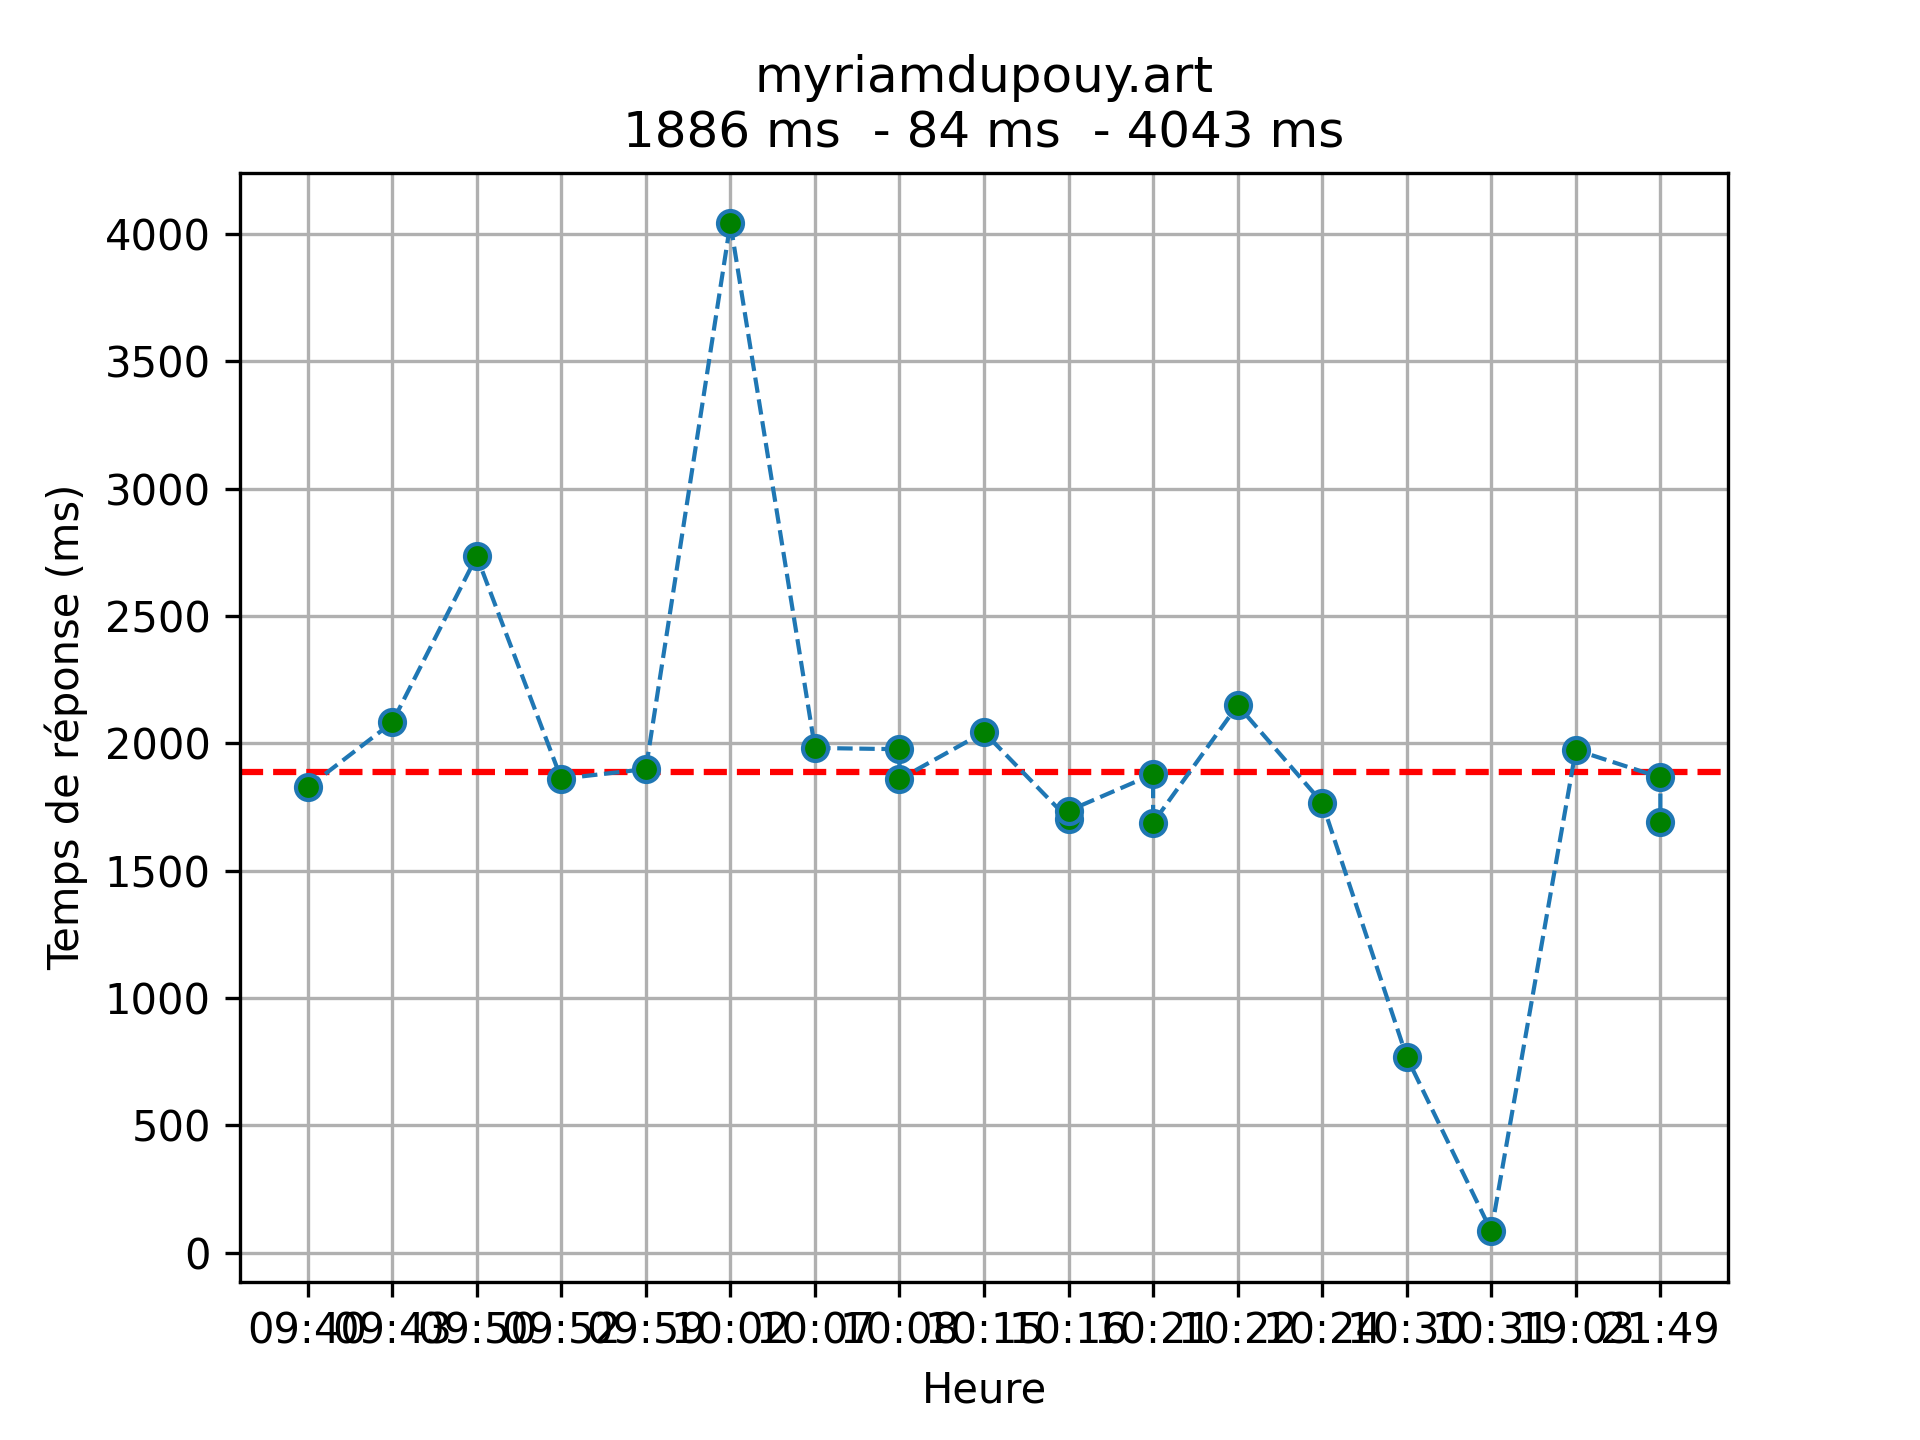
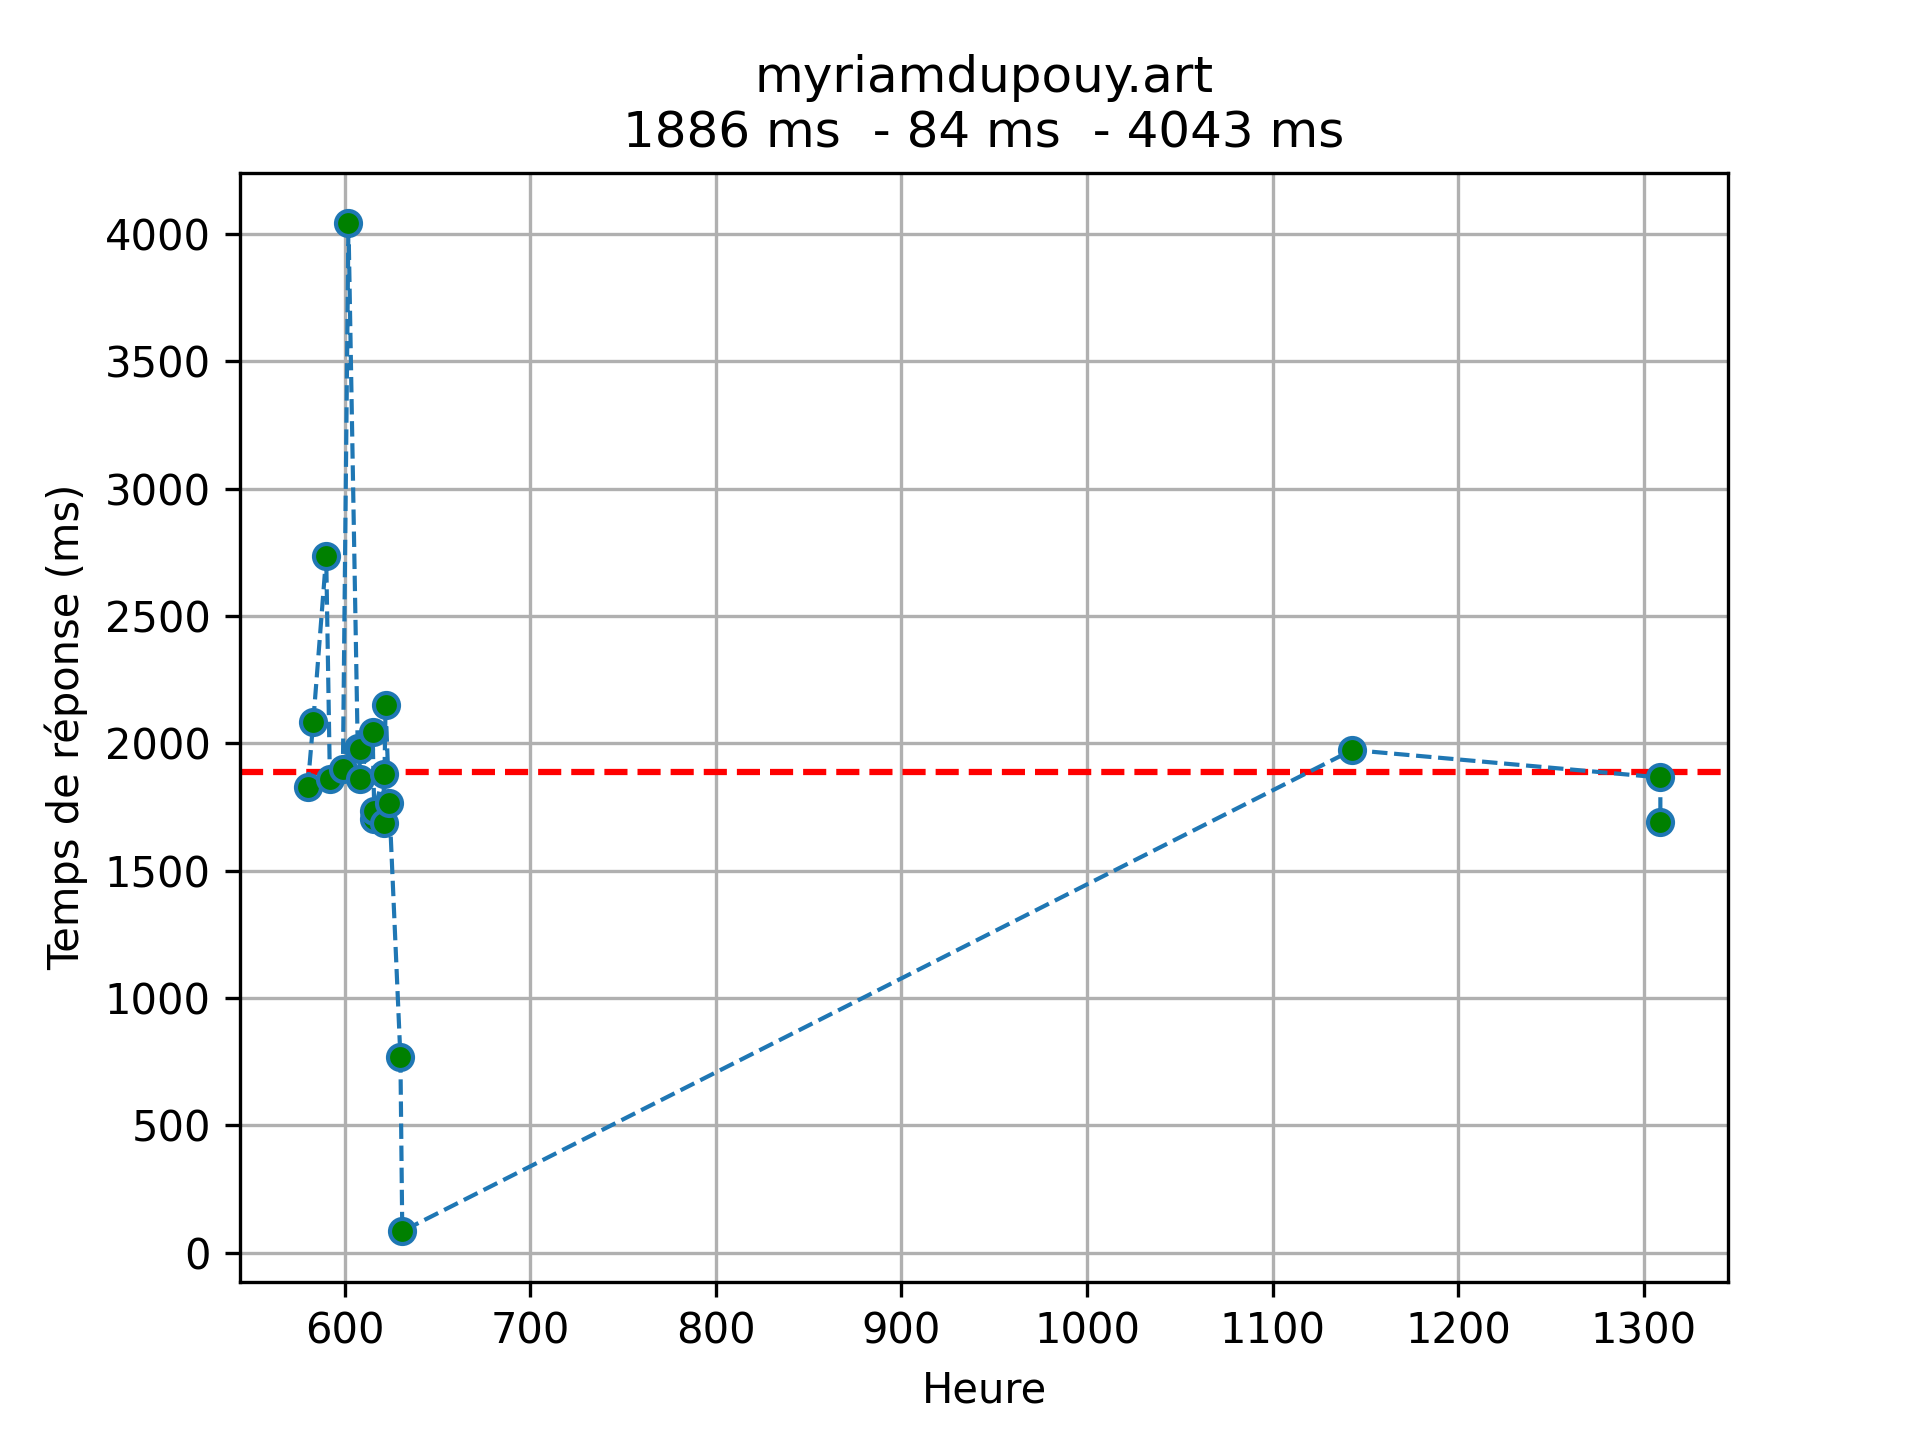
Passage à la seconde pour l'axe X

diff --git a/createGraphSVG.py b/createGraphSVG.py
@@ -1,0 +1,76 @@
+
+import numpy as np
+from datetime import datetime
+import json
+
+class createGraph:
+    fichierData = ""
+    nomHost = ""
+    dataGraph = []
+    labels=[]
+    Tdr=[]
+    SufixeGRAPH = "_graph"
+    PrefixeDATA = ""
+    extensionGraph = "png"
+    dpiGraph = 300
+    enregistrementGraph =""
+   
+    def __init__(self, fichierJson, nomHost, enregistrementGraph = False):
+        self.fichierData = fichierJson
+        self.nomHost = nomHost
+        self.enregistrementGraph = enregistrementGraph
+        self.chargerData()
+           
+    def chargerData(self):
+            # Récupération des valeurs depuis un fichier de données
+            print("Lecture des données depuis le fichier : " + self.fichierData)
+            with open(self.fichierData, 'r') as file :   
+                self.dataGraph = json.load(file) 
+            file.close()
+            self.creationGraph()
+
+    def time_to_seconds(self,time_str):
+            minutes, seconds = time_str.split(':')
+            return int(minutes) * 60 + int(seconds)
+
+    def creationGraph(self):
+        # Chargement des données pour l'axe Y
+        for cle in self.dataGraph:
+            self.labels.append(self.time_to_seconds(cle['heure']))
+        print(self.labels)
+        
+        # Chargement des données pour l'axe X
+        for cle in self.dataGraph:
+            self.Tdr.append(cle['Tdr'])
+        print(self.Tdr)
+        # Calcul le min, le MAX et la moyenne totale
+        tabTdr = np.array(self.Tdr)
+        minTdr = np.min(self.Tdr)
+        maxTdr = np.max(self.Tdr)
+        moyTdf = np.mean(tabTdr)
+        
+
+nomfichierData = "myriamdupouycom_sondeSite.json"
+nomduSite = "myriamdupouy.art"
+
+# Chargement des données, création du graphique et enregistrement en local
+testgraph = createGraph(nomfichierData, nomduSite, True)
+
+print(testgraph.labels)
+
+compteElement = len(testgraph.labels)
+
+print("<svg height=\"1000\" width=\"1000\" xmlns=\"http://www.w3.org/2000/svg\">")
+
+
+for i in range(compteElement):
+    #print("x : " + str(testgraph.labels[i]) + " y: " + str(testgraph.Tdr[i]))
+    print("<line x1=0 y1=0" + " x2=" + str(testgraph.labels[i]) + " y2=" + str(testgraph.Tdr[i]) + " style=\"stroke:red;stroke-width:2\" />")
+
+
+#
+#<svg height="200" width="300" xmlns="http://www.w3.org/2000/svg">
+#  <line x1="0" y1="0" x2="300" y2="200" style="stroke:red;stroke-width:2" />
+#</svg>
+
+

diff --git a/createGraph.py b/createGraph.py
@@ -21,7 +21,11 @@ class createGraph:
         self.nomHost = nomHost
         self.enregistrementGraph = enregistrementGraph
         self.chargerData()
-           
+
+    def time_to_seconds(self,time_str):
+        minutes, seconds = time_str.split(':')
+        return int(minutes) * 60 + int(seconds)
+            
     def chargerData(self):
             # Récupération des valeurs depuis un fichier de données
             print("Lecture des données depuis le fichier : " + self.fichierData)
@@ -33,7 +37,9 @@ class createGraph:
     def creationGraph(self):
         # Chargement des données pour l'axe Y
         for cle in self.dataGraph:
-            self.labels.append(cle['heure'])
+            # l'idee de passer avec des secondes c'était d'avoir une abscisse régulière
+            #self.labels.append(cle['heure'])
+            self.labels.append(self.time_to_seconds(cle['heure']))
 
         # Chargement des données pour l'axe X
         for cle in self.dataGraph:
